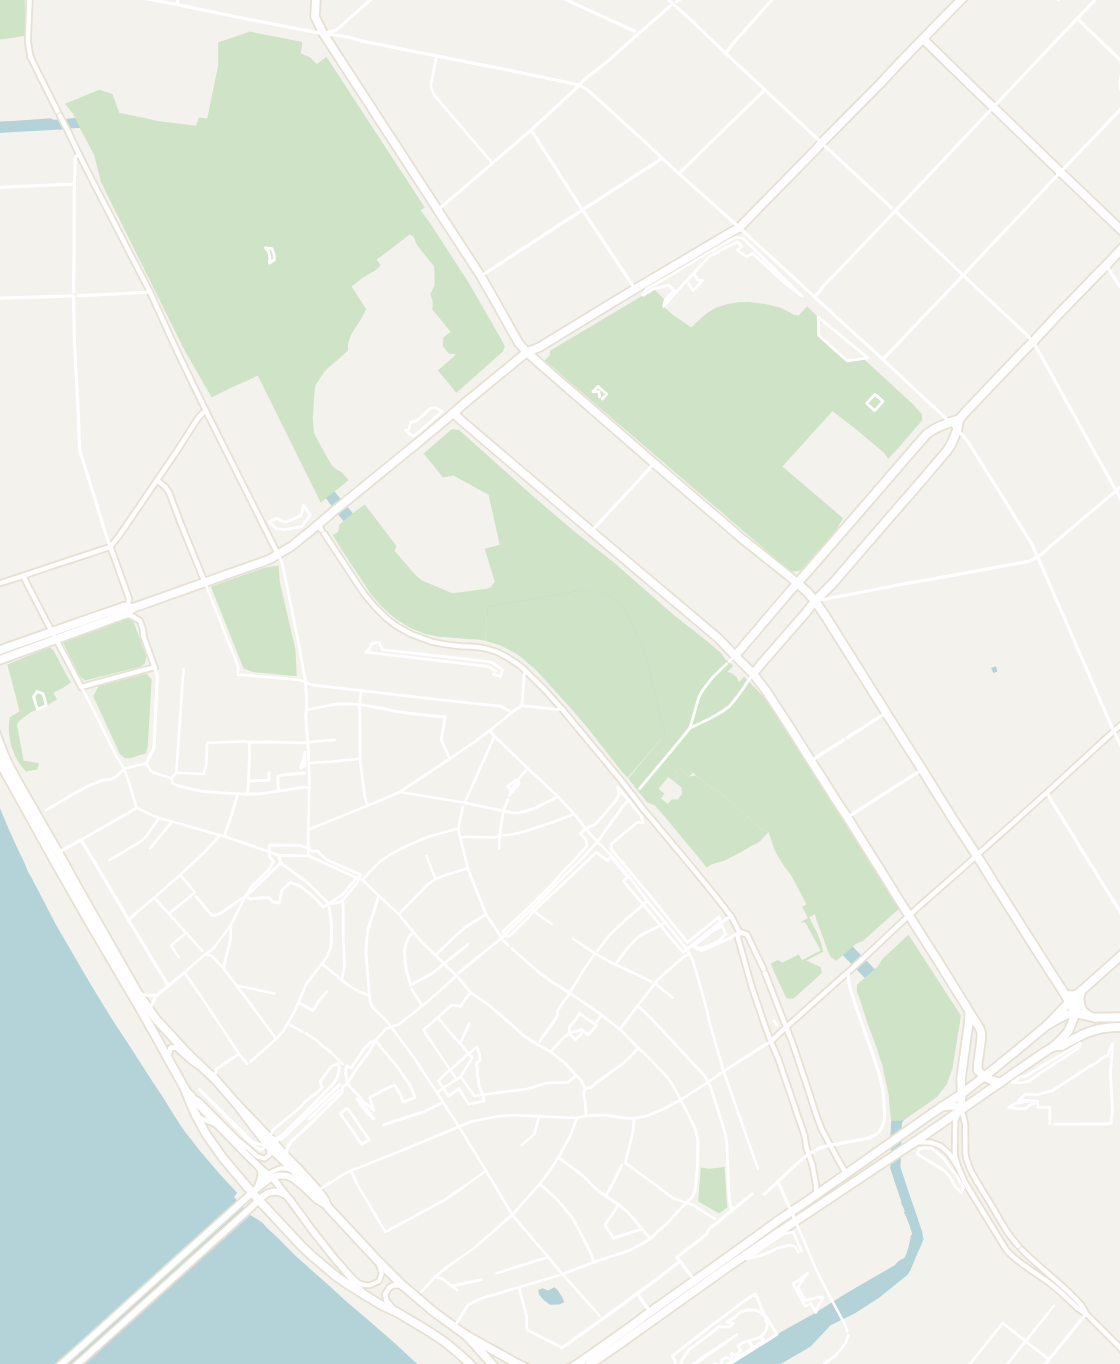
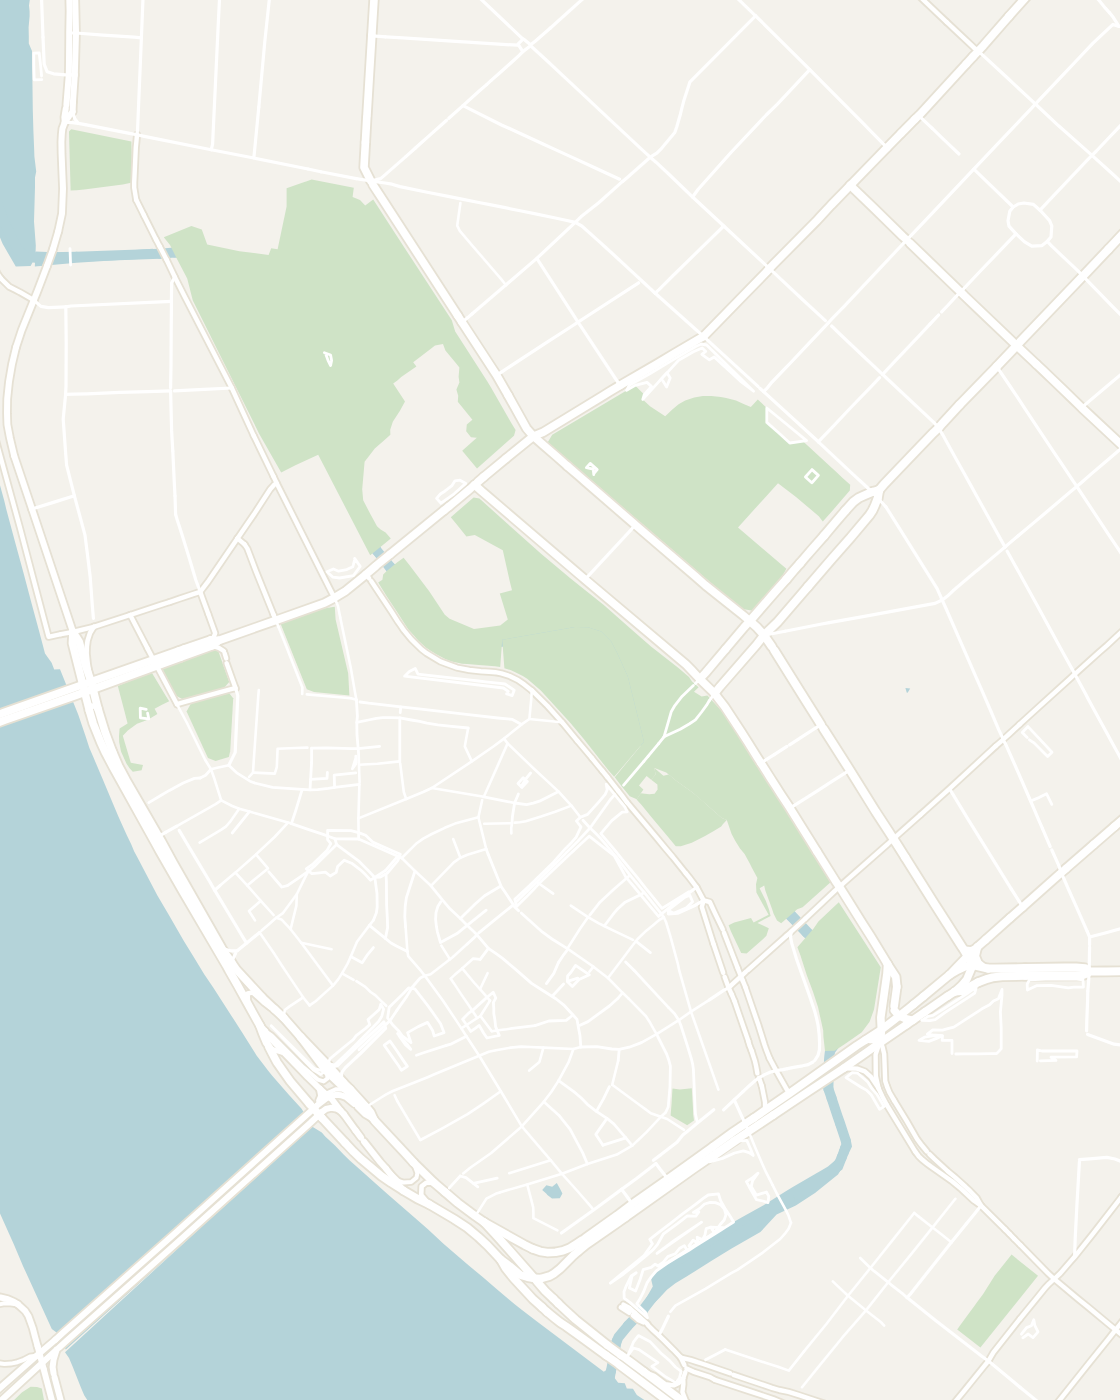
Riga city map: interactive mobile map (pan/zoom, fixed overlay)
Mobile city map is now a proper gesture map: drag to pan and pinch to zoom
out over a larger base, started zoomed into the old town and low enough to
keep the Central Market in view. Title + instructions moved to a fixed HTML
overlay (readable, dropped below the name) so the map pans underneath, and
the name-bubble arrow now points at the tapped pin.

diff --git a/latvia/field-notes.html b/latvia/field-notes.html
@@ -310,8 +310,12 @@
 .num{flex:0 0 15px;width:15px;height:15px;border-radius:50%;font-size:8.5px;font-weight:700;display:inline-flex;align-items:center;justify-content:center}
 .nm{font-size:11px;font-weight:500;color:#1C2821;white-space:nowrap}
 .cmbubble{position:absolute;display:none;z-index:6;background:#1C2821;color:#fff;font:600 13px/1 Montserrat,Arial;padding:8px 12px;border-radius:8px;white-space:nowrap;box-shadow:0 4px 12px rgba(0,0,0,.28);pointer-events:auto}
-.cmbubble:after{content:"";position:absolute;left:50%;bottom:-6px;transform:translateX(-50%);border:6px solid transparent;border-top-color:#1C2821;border-bottom:0}
-.cmhint{margin:8px 6px 0;font-size:9.5px;font-style:italic;color:#98A19A;text-align:center;line-height:1.4}
+.cmbubble:after{content:"";position:absolute;left:var(--arrow-left,50%);bottom:-6px;transform:translateX(-50%);border:6px solid transparent;border-top-color:#1C2821;border-bottom:0}
+/* mobile fixed title/instructions overlay (map pans underneath) */
+.cm-ov{position:absolute;top:14px;left:18px;pointer-events:none;text-shadow:0 0 5px rgba(244,242,236,.95),0 0 5px rgba(244,242,236,.95)}
+.cm-ov-kick{font:600 10px/1 Montserrat,Arial;letter-spacing:3px;color:#2D6B50;margin-bottom:3px}
+.cm-ov-title{font-family:Fraunces,Georgia,serif;font-weight:600;font-size:40px;color:#1C2821;line-height:1}
+.cm-ov-hint{margin-top:16px;font:italic 500 11px/1.55 Montserrat,Arial;color:#586159;max-width:300px}
 @media (max-width:700px){ .citymap.desk{display:none} .citymap.mob{display:block} }
 </style>
 <figure class="citymap-fig"><div class="citymap desk"><div class="cmmap"><svg xmlns="http://www.w3.org/2000/svg" viewBox="0 0 760 470" font-family="Montserrat,Arial,sans-serif" style="paint-order:stroke">
@@ -346,26 +350,22 @@
 <a class="cmrow" data-i="10" href="https://www.google.com/maps/place/Skyline+bar/@56.9513354,24.1075583,14.86z/data=!4m14!1m7!3m6!1s0x46eecfc5ba7d1e9b:0x48926e281aa169f8!2sRiga+Art+Nouveau+Center!8m2!3d56.9595579!4d24.1084449!16s%2Fg%2F11ggsp0t2y!3m5!1s0x46eecfce08a4f14f:0xd7b3b26988aad881!8m2!3d56.9549827!4d24.1179294!16s%2Fg%2F1tj6sj76?entry=ttu&amp;g_ep=EgoyMDI2MDcyNi4wIKXMDSoASAFQAw%3D%3D" target="_blank" rel="noopener"><span class="num" style="background:#C8DDD5;color:#1C2821">10</span><span class="nm">Skyline Bar</span></a>
 <div class="cmhead">ACCOMMODATION</div>
 <a class="cmrow" data-i="11" href="https://www.google.com/maps/search/?api=1&amp;query=Cinnamon+Sally+Hostel+Riga" target="_blank" rel="noopener"><span class="num" style="background:#6B716C;color:#ffffff">11</span><span class="nm">Cinnamon Sally Hostel</span></a>
-</div></div><div class="citymap mob"><div class="cmmap"><svg xmlns="http://www.w3.org/2000/svg" viewBox="0 0 560 682" font-family="Montserrat,Arial,sans-serif" style="paint-order:stroke">
-<image x="0" y="0" width="560" height="682" href="../Images/web/city-maps/riga-mobile.png"/>
-<text x="193" y="480" font-size="22" letter-spacing="5.0" fill="#9DAAA0" text-anchor="middle" stroke="#F4F2EC" stroke-width="3">VECRĪGA</text>
-<a href="https://www.google.com/maps/search/?api=1&amp;query=Cinnamon+Sally+Hostel+Riga" target="_blank" rel="noopener"><g class="cmpin" data-i="11" data-name="Cinnamon Sally Hostel"><g transform="translate(523.4 500.0) scale(2.0)"><path d="M0 0 C-3.4 -8 -8 -11.4 -8 -17.7 A8 8 0 1 1 8 -17.7 C8 -11.4 3.4 -8 0 0 Z" transform="translate(0.7 1.5)" fill="#000" opacity="0.2"/><path d="M0 0 C-3.4 -8 -8 -11.4 -8 -17.7 A8 8 0 1 1 8 -17.7 C8 -11.4 3.4 -8 0 0 Z" fill="#6B716C" stroke="#fff" stroke-width="1.1"/><circle cx="0" cy="-17.7" r="3.1" fill="#fff"/></g></g></a>
-<a href="https://www.google.com/maps/place/Skyline+bar/@56.9513354,24.1075583,14.86z/data=!4m14!1m7!3m6!1s0x46eecfc5ba7d1e9b:0x48926e281aa169f8!2sRiga+Art+Nouveau+Center!8m2!3d56.9595579!4d24.1084449!16s%2Fg%2F11ggsp0t2y!3m5!1s0x46eecfce08a4f14f:0xd7b3b26988aad881!8m2!3d56.9549827!4d24.1179294!16s%2Fg%2F1tj6sj76?entry=ttu&amp;g_ep=EgoyMDI2MDcyNi4wIKXMDSoASAFQAw%3D%3D" target="_blank" rel="noopener"><g class="cmpin" data-i="10" data-name="Skyline Bar"><g transform="translate(477.1 183.5) scale(2.0)"><path d="M0 0 C-3.4 -8 -8 -11.4 -8 -17.7 A8 8 0 1 1 8 -17.7 C8 -11.4 3.4 -8 0 0 Z" transform="translate(0.7 1.5)" fill="#000" opacity="0.2"/><path d="M0 0 C-3.4 -8 -8 -11.4 -8 -17.7 A8 8 0 1 1 8 -17.7 C8 -11.4 3.4 -8 0 0 Z" fill="#C8DDD5" stroke="#fff" stroke-width="1.1"/><circle cx="0" cy="-17.7" r="3.1" fill="#fff"/></g></g></a>
-<a href="https://www.google.com/maps/place/Moods/@56.9469934,24.1065254,16z/data=!4m13!1m7!3m6!1s0x46eecfc5ba7d1e9b:0x48926e281aa169f8!2sRiga+Art+Nouveau+Center!8m2!3d56.9595579!4d24.1084449!16s%2Fg%2F11ggsp0t2y!3m4!1s0x46eecfec3f3a858d:0x15350dd0bb5fef46!8m2!3d56.9452843!4d24.109143?entry=ttu&amp;g_ep=EgoyMDI2MDcyNi4wIKXMDSoASAFQAw%3D%3D" target="_blank" rel="noopener"><g class="cmpin" data-i="9" data-name="Moods.lv"><g transform="translate(251.1 640.9) scale(2.0)"><path d="M0 0 C-3.4 -8 -8 -11.4 -8 -17.7 A8 8 0 1 1 8 -17.7 C8 -11.4 3.4 -8 0 0 Z" transform="translate(0.7 1.5)" fill="#000" opacity="0.2"/><path d="M0 0 C-3.4 -8 -8 -11.4 -8 -17.7 A8 8 0 1 1 8 -17.7 C8 -11.4 3.4 -8 0 0 Z" fill="#C8DDD5" stroke="#fff" stroke-width="1.1"/><circle cx="0" cy="-17.7" r="3.1" fill="#fff"/></g></g></a>
-<a href="https://www.google.com/maps/search/?api=1&amp;query=Art+Nouveau+Quarter+Riga+Alberta+iela" target="_blank" rel="noopener"><g class="cmpin" data-i="8" data-name="Art Nouveau Quarter"><g transform="translate(219.2 -29.7) scale(2.0)"><path d="M0 0 C-3.4 -8 -8 -11.4 -8 -17.7 A8 8 0 1 1 8 -17.7 C8 -11.4 3.4 -8 0 0 Z" transform="translate(0.7 1.5)" fill="#000" opacity="0.2"/><path d="M0 0 C-3.4 -8 -8 -11.4 -8 -17.7 A8 8 0 1 1 8 -17.7 C8 -11.4 3.4 -8 0 0 Z" fill="#245A43" stroke="#fff" stroke-width="1.1"/><circle cx="0" cy="-17.7" r="3.1" fill="#fff"/></g></g></a>
-<a href="https://www.google.com/maps/search/?api=1&amp;query=Riga+Central+Market" target="_blank" rel="noopener"><g class="cmpin" data-i="7" data-name="Riga Central Market"><g transform="translate(393.8 711.7) scale(2.0)"><path d="M0 0 C-3.4 -8 -8 -11.4 -8 -17.7 A8 8 0 1 1 8 -17.7 C8 -11.4 3.4 -8 0 0 Z" transform="translate(0.7 1.5)" fill="#000" opacity="0.2"/><path d="M0 0 C-3.4 -8 -8 -11.4 -8 -17.7 A8 8 0 1 1 8 -17.7 C8 -11.4 3.4 -8 0 0 Z" fill="#245A43" stroke="#fff" stroke-width="1.1"/><circle cx="0" cy="-17.7" r="3.1" fill="#fff"/></g></g></a>
-<a href="https://www.google.com/maps/place/Riga+Castle/@56.9513145,24.0915373,15z/data=!4m6!3m5!1s0x46eecfd98f453a21:0x4e5a056da959e9c5!8m2!3d56.951003!4d24.1007905!16zL20vMDZiazY0?entry=ttu&amp;g_ep=EgoyMDI2MDcyNi4wIKXMDSoASAFQAw%3D%3D" target="_blank" rel="noopener"><g class="cmpin" data-i="6" data-name="Riga Castle"><g transform="translate(36.6 371.2) scale(2.0)"><path d="M0 0 C-3.4 -8 -8 -11.4 -8 -17.7 A8 8 0 1 1 8 -17.7 C8 -11.4 3.4 -8 0 0 Z" transform="translate(0.7 1.5)" fill="#000" opacity="0.2"/><path d="M0 0 C-3.4 -8 -8 -11.4 -8 -17.7 A8 8 0 1 1 8 -17.7 C8 -11.4 3.4 -8 0 0 Z" fill="#245A43" stroke="#fff" stroke-width="1.1"/><circle cx="0" cy="-17.7" r="3.1" fill="#fff"/></g></g></a>
-<a href="https://www.google.com/maps/place/Cat+House/@56.9501204,24.1041431,15.83z/data=!4m6!3m5!1s0x46eecfd0d7a7943f:0x761814c02a1b445f!8m2!3d56.9502134!4d24.1085295!16s%2Fm%2F0czd34r?entry=ttu&amp;g_ep=EgoyMDI2MDcyNi4wIKXMDSoASAFQAw%3D%3D" target="_blank" rel="noopener"><g class="cmpin" data-i="5" data-name="Cat House"><g transform="translate(235.4 408.5) scale(2.0)"><path d="M0 0 C-3.4 -8 -8 -11.4 -8 -17.7 A8 8 0 1 1 8 -17.7 C8 -11.4 3.4 -8 0 0 Z" transform="translate(0.7 1.5)" fill="#000" opacity="0.2"/><path d="M0 0 C-3.4 -8 -8 -11.4 -8 -17.7 A8 8 0 1 1 8 -17.7 C8 -11.4 3.4 -8 0 0 Z" fill="#245A43" stroke="#fff" stroke-width="1.1"/><circle cx="0" cy="-17.7" r="3.1" fill="#fff"/></g></g></a>
-<a href="https://www.google.com/maps/place/Three+Brothers,+Latvian+Museum+of+Architecture/@56.9480275,24.11034,15.15z/data=!4m6!3m5!1s0x46eecfd7549f102f:0x71d673de0e50bc54!8m2!3d56.950364!4d24.1042986!16s%2Fm%2F06zk7fs?entry=ttu&amp;g_ep=EgoyMDI2MDcyNi4wIKXMDSoASAFQAw%3D%3D" target="_blank" rel="noopener"><g class="cmpin" data-i="4" data-name="Three Brothers"><g transform="translate(126.6 401.4) scale(2.0)"><path d="M0 0 C-3.4 -8 -8 -11.4 -8 -17.7 A8 8 0 1 1 8 -17.7 C8 -11.4 3.4 -8 0 0 Z" transform="translate(0.7 1.5)" fill="#000" opacity="0.2"/><path d="M0 0 C-3.4 -8 -8 -11.4 -8 -17.7 A8 8 0 1 1 8 -17.7 C8 -11.4 3.4 -8 0 0 Z" fill="#245A43" stroke="#fff" stroke-width="1.1"/><circle cx="0" cy="-17.7" r="3.1" fill="#fff"/></g></g></a>
-<a href="https://www.google.com/maps/search/?api=1&amp;query=Museum+of+the+Occupation+of+Latvia+Riga" target="_blank" rel="noopener"><g class="cmpin" data-i="3" data-name="Museum of the Occupation"><g transform="translate(207.9 525.4) scale(2.0)"><path d="M0 0 C-3.4 -8 -8 -11.4 -8 -17.7 A8 8 0 1 1 8 -17.7 C8 -11.4 3.4 -8 0 0 Z" transform="translate(0.7 1.5)" fill="#000" opacity="0.2"/><path d="M0 0 C-3.4 -8 -8 -11.4 -8 -17.7 A8 8 0 1 1 8 -17.7 C8 -11.4 3.4 -8 0 0 Z" fill="#245A43" stroke="#fff" stroke-width="1.1"/><circle cx="0" cy="-17.7" r="3.1" fill="#fff"/></g></g></a>
-<a href="https://www.google.com/maps/search/?api=1&amp;query=St+Peters+Church+Riga" target="_blank" rel="noopener"><g class="cmpin" data-i="2" data-name="St. Peter&#x27;s Church"><g transform="translate(253.9 541.4) scale(2.0)"><path d="M0 0 C-3.4 -8 -8 -11.4 -8 -17.7 A8 8 0 1 1 8 -17.7 C8 -11.4 3.4 -8 0 0 Z" transform="translate(0.7 1.5)" fill="#000" opacity="0.2"/><path d="M0 0 C-3.4 -8 -8 -11.4 -8 -17.7 A8 8 0 1 1 8 -17.7 C8 -11.4 3.4 -8 0 0 Z" fill="#245A43" stroke="#fff" stroke-width="1.1"/><circle cx="0" cy="-17.7" r="3.1" fill="#fff"/></g></g></a>
-<a href="https://www.google.com/maps/search/?api=1&amp;query=House+of+the+Blackheads+Riga" target="_blank" rel="noopener"><g class="cmpin" data-i="1" data-name="House of the Blackheads"><g transform="translate(192.4 538.1) scale(2.0)"><path d="M0 0 C-3.4 -8 -8 -11.4 -8 -17.7 A8 8 0 1 1 8 -17.7 C8 -11.4 3.4 -8 0 0 Z" transform="translate(0.7 1.5)" fill="#000" opacity="0.2"/><path d="M0 0 C-3.4 -8 -8 -11.4 -8 -17.7 A8 8 0 1 1 8 -17.7 C8 -11.4 3.4 -8 0 0 Z" fill="#245A43" stroke="#fff" stroke-width="1.1"/><circle cx="0" cy="-17.7" r="3.1" fill="#fff"/></g></g></a>
-<text x="38" y="50" font-family="Montserrat,Arial" font-size="15" font-weight="600" letter-spacing="6.7" fill="#2D6B50" stroke="#F4F2EC" stroke-width="4.5" paint-order="stroke">LATVIA</text>
-<text x="35" y="93" font-family="Fraunces,Georgia,serif" font-size="56" font-weight="600" fill="#1C2821" stroke="#F4F2EC" stroke-width="7.3" paint-order="stroke">Riga</text>
-<text x="36" y="114" font-family="Montserrat,Arial" font-style="italic" font-size="11" fill="#8A938C" stroke="#F4F2EC" stroke-width="2.4" paint-order="stroke">Pinch to zoom · tap a pin for the name</text>
-<text x="36" y="129" font-family="Montserrat,Arial" font-style="italic" font-size="11" fill="#8A938C" stroke="#F4F2EC" stroke-width="2.4" paint-order="stroke">double-tap to open in Google Maps</text>
-<text x="554" y="676" font-size="8" fill="#8B978F" text-anchor="end">© OpenStreetMap · getawayguide</text>
-</svg></div></div></figure>
+</div></div><div class="citymap mob"><div class="cmmap"><svg xmlns="http://www.w3.org/2000/svg" viewBox="0 0 560 700" font-family="Montserrat,Arial,sans-serif" style="paint-order:stroke">
+<image x="0" y="0" width="560" height="700" href="../Images/web/city-maps/riga-mobile.png"/>
+<text x="211" y="461" font-size="19" letter-spacing="4.2" fill="#9DAAA0" text-anchor="middle" stroke="#F4F2EC" stroke-width="3">VECRĪGA</text>
+<a href="https://www.google.com/maps/search/?api=1&amp;query=Cinnamon+Sally+Hostel+Riga" target="_blank" rel="noopener"><g class="cmpin" data-i="11" data-name="Cinnamon Sally Hostel"><g transform="translate(474.8 477.2) scale(1.7)"><path d="M0 0 C-3.4 -8 -8 -11.4 -8 -17.7 A8 8 0 1 1 8 -17.7 C8 -11.4 3.4 -8 0 0 Z" transform="translate(0.7 1.5)" fill="#000" opacity="0.2"/><path d="M0 0 C-3.4 -8 -8 -11.4 -8 -17.7 A8 8 0 1 1 8 -17.7 C8 -11.4 3.4 -8 0 0 Z" fill="#6B716C" stroke="#fff" stroke-width="1.1"/><circle cx="0" cy="-17.7" r="3.1" fill="#fff"/></g></g></a>
+<a href="https://www.google.com/maps/place/Skyline+bar/@56.9513354,24.1075583,14.86z/data=!4m14!1m7!3m6!1s0x46eecfc5ba7d1e9b:0x48926e281aa169f8!2sRiga+Art+Nouveau+Center!8m2!3d56.9595579!4d24.1084449!16s%2Fg%2F11ggsp0t2y!3m5!1s0x46eecfce08a4f14f:0xd7b3b26988aad881!8m2!3d56.9549827!4d24.1179294!16s%2Fg%2F1tj6sj76?entry=ttu&amp;g_ep=EgoyMDI2MDcyNi4wIKXMDSoASAFQAw%3D%3D" target="_blank" rel="noopener"><g class="cmpin" data-i="10" data-name="Skyline Bar"><g transform="translate(437.7 224.0) scale(1.7)"><path d="M0 0 C-3.4 -8 -8 -11.4 -8 -17.7 A8 8 0 1 1 8 -17.7 C8 -11.4 3.4 -8 0 0 Z" transform="translate(0.7 1.5)" fill="#000" opacity="0.2"/><path d="M0 0 C-3.4 -8 -8 -11.4 -8 -17.7 A8 8 0 1 1 8 -17.7 C8 -11.4 3.4 -8 0 0 Z" fill="#C8DDD5" stroke="#fff" stroke-width="1.1"/><circle cx="0" cy="-17.7" r="3.1" fill="#fff"/></g></g></a>
+<a href="https://www.google.com/maps/place/Moods/@56.9469934,24.1065254,16z/data=!4m13!1m7!3m6!1s0x46eecfc5ba7d1e9b:0x48926e281aa169f8!2sRiga+Art+Nouveau+Center!8m2!3d56.9595579!4d24.1084449!16s%2Fg%2F11ggsp0t2y!3m4!1s0x46eecfec3f3a858d:0x15350dd0bb5fef46!8m2!3d56.9452843!4d24.109143?entry=ttu&amp;g_ep=EgoyMDI2MDcyNi4wIKXMDSoASAFQAw%3D%3D" target="_blank" rel="noopener"><g class="cmpin" data-i="9" data-name="Moods.lv"><g transform="translate(256.8 590.0) scale(1.7)"><path d="M0 0 C-3.4 -8 -8 -11.4 -8 -17.7 A8 8 0 1 1 8 -17.7 C8 -11.4 3.4 -8 0 0 Z" transform="translate(0.7 1.5)" fill="#000" opacity="0.2"/><path d="M0 0 C-3.4 -8 -8 -11.4 -8 -17.7 A8 8 0 1 1 8 -17.7 C8 -11.4 3.4 -8 0 0 Z" fill="#C8DDD5" stroke="#fff" stroke-width="1.1"/><circle cx="0" cy="-17.7" r="3.1" fill="#fff"/></g></g></a>
+<a href="https://www.google.com/maps/search/?api=1&amp;query=Art+Nouveau+Quarter+Riga+Alberta+iela" target="_blank" rel="noopener"><g class="cmpin" data-i="8" data-name="Art Nouveau Quarter"><g transform="translate(231.3 53.4) scale(1.7)"><path d="M0 0 C-3.4 -8 -8 -11.4 -8 -17.7 A8 8 0 1 1 8 -17.7 C8 -11.4 3.4 -8 0 0 Z" transform="translate(0.7 1.5)" fill="#000" opacity="0.2"/><path d="M0 0 C-3.4 -8 -8 -11.4 -8 -17.7 A8 8 0 1 1 8 -17.7 C8 -11.4 3.4 -8 0 0 Z" fill="#245A43" stroke="#fff" stroke-width="1.1"/><circle cx="0" cy="-17.7" r="3.1" fill="#fff"/></g></g></a>
+<a href="https://www.google.com/maps/search/?api=1&amp;query=Riga+Central+Market" target="_blank" rel="noopener"><g class="cmpin" data-i="7" data-name="Riga Central Market"><g transform="translate(371.1 646.6) scale(1.7)"><path d="M0 0 C-3.4 -8 -8 -11.4 -8 -17.7 A8 8 0 1 1 8 -17.7 C8 -11.4 3.4 -8 0 0 Z" transform="translate(0.7 1.5)" fill="#000" opacity="0.2"/><path d="M0 0 C-3.4 -8 -8 -11.4 -8 -17.7 A8 8 0 1 1 8 -17.7 C8 -11.4 3.4 -8 0 0 Z" fill="#245A43" stroke="#fff" stroke-width="1.1"/><circle cx="0" cy="-17.7" r="3.1" fill="#fff"/></g></g></a>
+<a href="https://www.google.com/maps/place/Riga+Castle/@56.9513145,24.0915373,15z/data=!4m6!3m5!1s0x46eecfd98f453a21:0x4e5a056da959e9c5!8m2!3d56.951003!4d24.1007905!16zL20vMDZiazY0?entry=ttu&amp;g_ep=EgoyMDI2MDcyNi4wIKXMDSoASAFQAw%3D%3D" target="_blank" rel="noopener"><g class="cmpin" data-i="6" data-name="Riga Castle"><g transform="translate(85.2 374.2) scale(1.7)"><path d="M0 0 C-3.4 -8 -8 -11.4 -8 -17.7 A8 8 0 1 1 8 -17.7 C8 -11.4 3.4 -8 0 0 Z" transform="translate(0.7 1.5)" fill="#000" opacity="0.2"/><path d="M0 0 C-3.4 -8 -8 -11.4 -8 -17.7 A8 8 0 1 1 8 -17.7 C8 -11.4 3.4 -8 0 0 Z" fill="#245A43" stroke="#fff" stroke-width="1.1"/><circle cx="0" cy="-17.7" r="3.1" fill="#fff"/></g></g></a>
+<a href="https://www.google.com/maps/place/Cat+House/@56.9501204,24.1041431,15.83z/data=!4m6!3m5!1s0x46eecfd0d7a7943f:0x761814c02a1b445f!8m2!3d56.9502134!4d24.1085295!16s%2Fm%2F0czd34r?entry=ttu&amp;g_ep=EgoyMDI2MDcyNi4wIKXMDSoASAFQAw%3D%3D" target="_blank" rel="noopener"><g class="cmpin" data-i="5" data-name="Cat House"><g transform="translate(244.3 404.0) scale(1.7)"><path d="M0 0 C-3.4 -8 -8 -11.4 -8 -17.7 A8 8 0 1 1 8 -17.7 C8 -11.4 3.4 -8 0 0 Z" transform="translate(0.7 1.5)" fill="#000" opacity="0.2"/><path d="M0 0 C-3.4 -8 -8 -11.4 -8 -17.7 A8 8 0 1 1 8 -17.7 C8 -11.4 3.4 -8 0 0 Z" fill="#245A43" stroke="#fff" stroke-width="1.1"/><circle cx="0" cy="-17.7" r="3.1" fill="#fff"/></g></g></a>
+<a href="https://www.google.com/maps/place/Three+Brothers,+Latvian+Museum+of+Architecture/@56.9480275,24.11034,15.15z/data=!4m6!3m5!1s0x46eecfd7549f102f:0x71d673de0e50bc54!8m2!3d56.950364!4d24.1042986!16s%2Fm%2F06zk7fs?entry=ttu&amp;g_ep=EgoyMDI2MDcyNi4wIKXMDSoASAFQAw%3D%3D" target="_blank" rel="noopener"><g class="cmpin" data-i="4" data-name="Three Brothers"><g transform="translate(157.2 398.3) scale(1.7)"><path d="M0 0 C-3.4 -8 -8 -11.4 -8 -17.7 A8 8 0 1 1 8 -17.7 C8 -11.4 3.4 -8 0 0 Z" transform="translate(0.7 1.5)" fill="#000" opacity="0.2"/><path d="M0 0 C-3.4 -8 -8 -11.4 -8 -17.7 A8 8 0 1 1 8 -17.7 C8 -11.4 3.4 -8 0 0 Z" fill="#245A43" stroke="#fff" stroke-width="1.1"/><circle cx="0" cy="-17.7" r="3.1" fill="#fff"/></g></g></a>
+<a href="https://www.google.com/maps/search/?api=1&amp;query=Museum+of+the+Occupation+of+Latvia+Riga" target="_blank" rel="noopener"><g class="cmpin" data-i="3" data-name="Museum of the Occupation"><g transform="translate(222.3 497.6) scale(1.7)"><path d="M0 0 C-3.4 -8 -8 -11.4 -8 -17.7 A8 8 0 1 1 8 -17.7 C8 -11.4 3.4 -8 0 0 Z" transform="translate(0.7 1.5)" fill="#000" opacity="0.2"/><path d="M0 0 C-3.4 -8 -8 -11.4 -8 -17.7 A8 8 0 1 1 8 -17.7 C8 -11.4 3.4 -8 0 0 Z" fill="#245A43" stroke="#fff" stroke-width="1.1"/><circle cx="0" cy="-17.7" r="3.1" fill="#fff"/></g></g></a>
+<a href="https://www.google.com/maps/search/?api=1&amp;query=St+Peters+Church+Riga" target="_blank" rel="noopener"><g class="cmpin" data-i="2" data-name="St. Peter&#x27;s Church"><g transform="translate(259.1 510.4) scale(1.7)"><path d="M0 0 C-3.4 -8 -8 -11.4 -8 -17.7 A8 8 0 1 1 8 -17.7 C8 -11.4 3.4 -8 0 0 Z" transform="translate(0.7 1.5)" fill="#000" opacity="0.2"/><path d="M0 0 C-3.4 -8 -8 -11.4 -8 -17.7 A8 8 0 1 1 8 -17.7 C8 -11.4 3.4 -8 0 0 Z" fill="#245A43" stroke="#fff" stroke-width="1.1"/><circle cx="0" cy="-17.7" r="3.1" fill="#fff"/></g></g></a>
+<a href="https://www.google.com/maps/search/?api=1&amp;query=House+of+the+Blackheads+Riga" target="_blank" rel="noopener"><g class="cmpin" data-i="1" data-name="House of the Blackheads"><g transform="translate(209.9 507.8) scale(1.7)"><path d="M0 0 C-3.4 -8 -8 -11.4 -8 -17.7 A8 8 0 1 1 8 -17.7 C8 -11.4 3.4 -8 0 0 Z" transform="translate(0.7 1.5)" fill="#000" opacity="0.2"/><path d="M0 0 C-3.4 -8 -8 -11.4 -8 -17.7 A8 8 0 1 1 8 -17.7 C8 -11.4 3.4 -8 0 0 Z" fill="#245A43" stroke="#fff" stroke-width="1.1"/><circle cx="0" cy="-17.7" r="3.1" fill="#fff"/></g></g></a>
+<text x="554" y="694" font-size="8" fill="#8B978F" text-anchor="end">© OpenStreetMap · getawayguide</text>
+</svg></div><div class="cm-ov"><div class="cm-ov-kick">LATVIA</div><div class="cm-ov-title">Riga</div><div class="cm-ov-hint">Drag &amp; pinch to explore · tap a pin for the name<br>double-tap to open it in Google Maps</div></div></div></figure>
 <script>
 (function(){
 function setup(cm){
@@ -388,7 +388,10 @@ function setup(cm){
    var cr=cm.getBoundingClientRect(),pr=g.getBoundingClientRect();
    var left=pr.left+pr.width/2-cr.left-bub.offsetWidth/2, top=pr.top-cr.top-bub.offsetHeight-9;
    bub.style.left=Math.max(6,Math.min(cr.width-bub.offsetWidth-6,left))+'px';
-   bub.style.top=Math.max(4,top)+'px'; clearAct(); g.classList.add('active');}
+   bub.style.top=Math.max(4,top)+'px';
+   var arx=(pr.left+pr.width/2-cr.left)-parseFloat(bub.style.left);   // arrow points at the pin
+   bub.style.setProperty('--arrow-left',Math.max(12,Math.min(bub.offsetWidth-12,arx))+'px');
+   clearAct(); g.classList.add('active');}
  bub.addEventListener('click',function(){if(armedHref)window.open(armedHref,'_blank');});
  var mode=null,sd=0,sw=0,anc=null,ps=null,moved=0,sx=0,sy=0;
  function P(e,i){return {x:e.touches[i].clientX,y:e.touches[i].clientY};}
@@ -414,6 +417,7 @@ function setup(cm){
        else hideBub();}
      mode=null;}
  });
+ if(cm.classList.contains('mob')){w=W*0.72;clamp();x=(W-w)/2;y=(H-h)*0.74;clamp();apply();}  // start zoomed in, low enough to keep the market
  var dm=cm.getAttribute('data-demo');
  if(dm){setTimeout(function(){var g=cm.querySelector('.cmpin[data-i="'+dm+'"]');if(g)showBub(g);},120);}
 }
